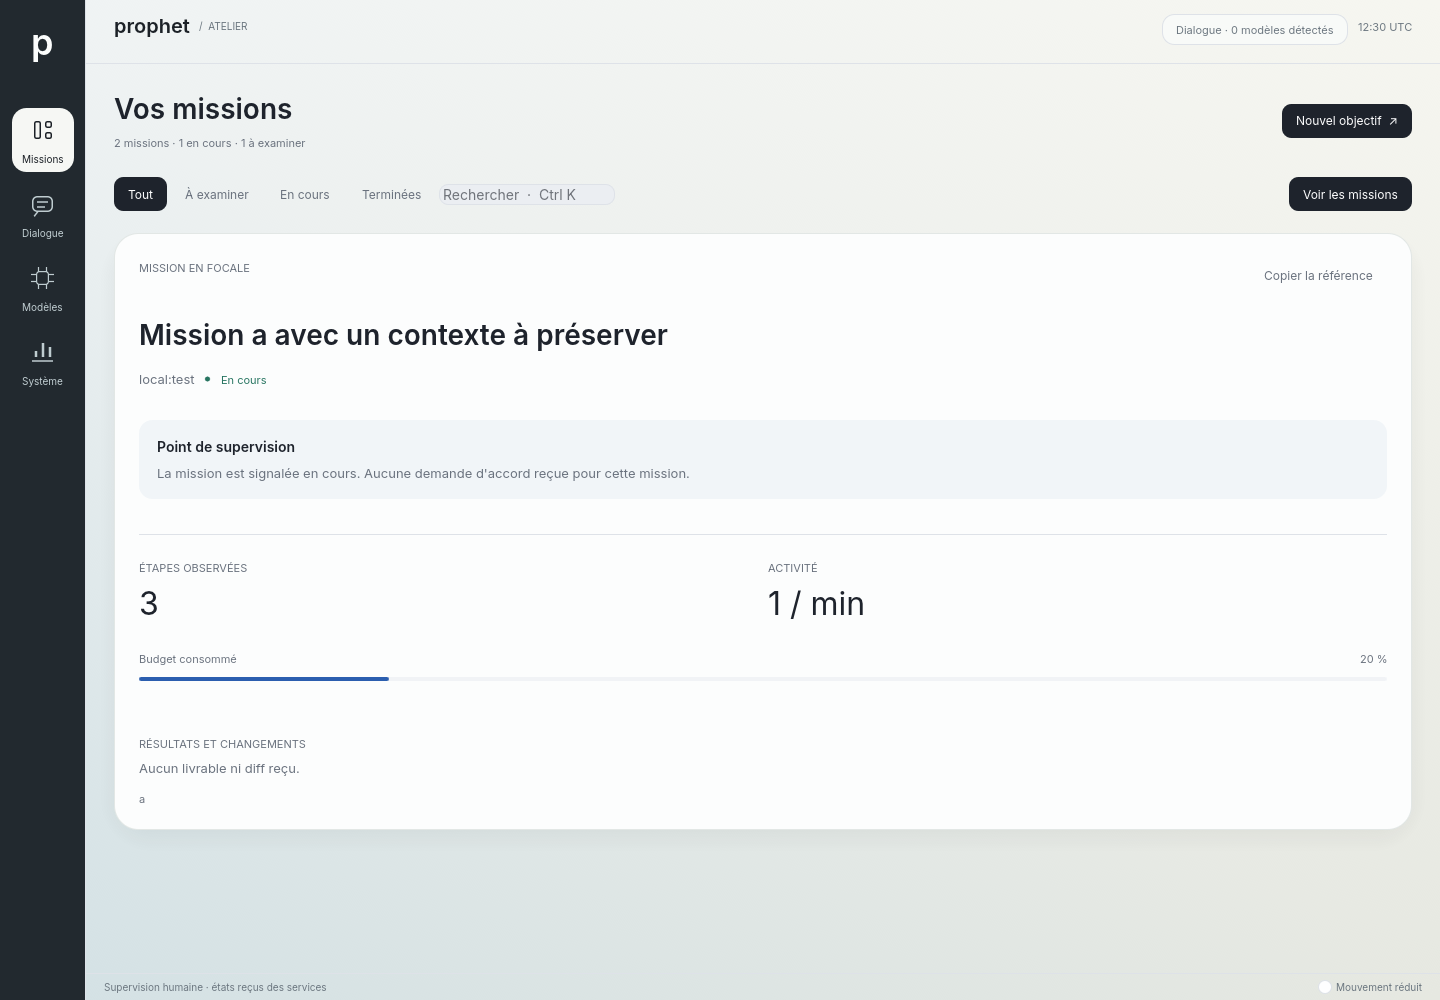
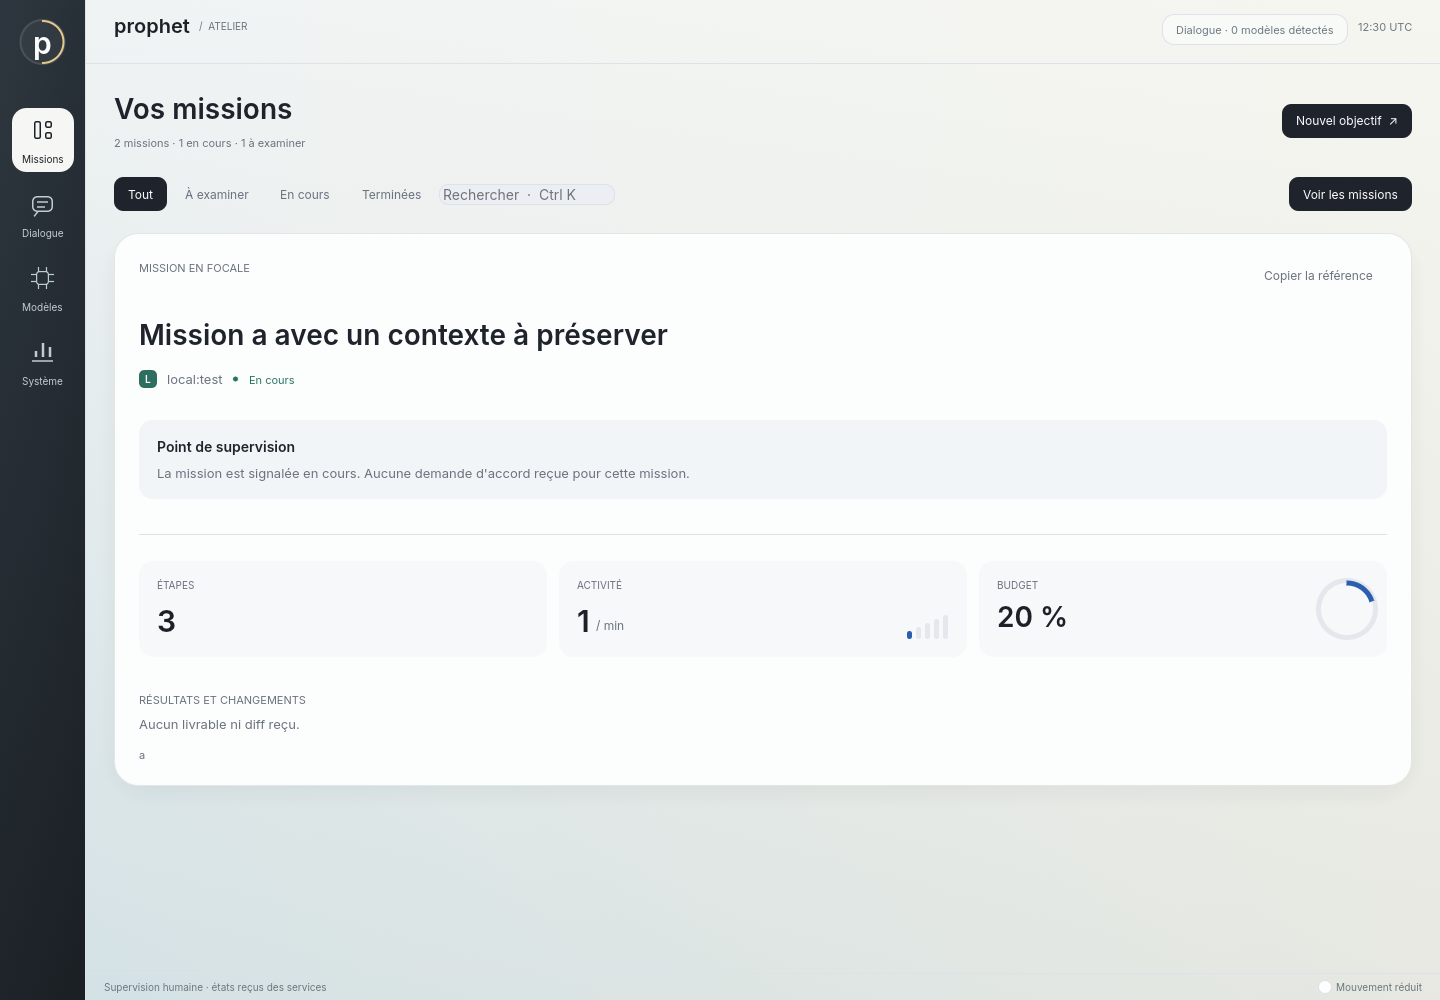
docs: les instruments de l'atelier et ses captures régénérées
Rapport daté, STATUS, FRONTIER et README ; les captures de l'atelier et de l'inspecteur sont
régénérées par le binaire et les tests en rendu logiciel, pour que la documentation montre
ce que le binaire dessine.

Claude-Session: https://claude.ai/code/session_012JqexkdMtmijXULYm2y2Eu

diff --git a/docs/reports/instruments-2026-09-13.md b/docs/reports/instruments-2026-09-13.md
@@ -1,0 +1,41 @@
+# Les instruments de l'atelier — 13 septembre 2026
+
+Passe visuelle après `a3659fd`, sur le binaire natif, rendue et vérifiée avec un GPU logiciel
+(llvmpipe). L'atelier gardait sa composition claire mais disait tout par des mots et des
+chiffres ; il dit maintenant l'essentiel par des formes, sans rien animer au repos.
+
+## Ce qui change
+
+- **Le rail** n'est plus un aplat : une lumière descend du haut, et l'emblème `p` est cerclé
+  d'un anneau qui se remplit avec la part de missions actives. Rien n'y bouge tant que l'état
+  ne change pas.
+- **Les missions** portent une bande de couleur d'état à gauche, un anneau de budget en haut à
+  droite et le monogramme de leur pilote : `C` Claude Code, `X` Codex, `G` Gemini, `L` moteur
+  local, `P` boucle native. On reconnaît qui travaille avant de lire.
+- **La Focale** remplace deux grands nombres et une barre par trois instruments : étapes,
+  activité avec son échelle à cinq traits, budget avec son anneau. L'inspecteur relié aux
+  services reçoit la même ligne en forme compacte, pour que la proposition et ses fichiers
+  restent visibles sans défiler.
+- Le module `instruments` fournit l'arc, l'anneau, le monogramme et la ligne d'instruments ;
+  ses tests vérifient les monogrammes et la géométrie des arcs.
+
+## Vérifications
+
+| Contrôle | Résultat local |
+| --- | --- |
+| `cargo test -p surface --lib` | 54 réussis |
+| `cargo test -p surface --test bureau --test rendu -- --include-ignored` (llvmpipe) | 15 réussis : repos sans animation, blanc translucide, tailles, décision, focale, mille missions |
+| `cargo test -p surface --test missions -- --include-ignored` (services réels, modèle contrôlé) | voir ci-dessous |
+| `cargo clippy -p surface --all-targets -- -D warnings`, `cargo fmt --all --check` | réussis |
+
+La première forme des instruments dans l'inspecteur relié cachait le bouton « Examiner » du
+premier fichier sous le défilement à 1440 × 1000 ; le test l'a relevé, et la forme compacte
+le corrige. Les captures de `docs/images/atelier-*.png` et `surface-mission-*.png` sont
+régénérées avec cette passe, par le binaire et les tests, en rendu logiciel.
+
+## Limites
+
+Le rendu logiciel ne mesure ni la fluidité ni la consommation sur une carte graphique réelle.
+La direction reste celle de l'ADR 0019, thème clair sans sculpture ; cette passe n'introduit
+aucune animation. La session humaine complète, les captures sur écran physique et les mesures
+matérielles attendues par FRONTIER restent ouvertes.

diff --git a/docs/STATUS.md b/docs/STATUS.md
@@ -79,6 +79,16 @@ et le [rapport](reports/navigateur-2026-09-13.md). La sortie réseau propre du n
 n'est pas relayée par egress et son confinement au niveau 2 n'est pas livré : les outils web
 restent désactivés par défaut. Aucune case complète de FRONTIER n'est cochée.
 
+Instruments de l'atelier du 13 septembre 2026, dans le commit portant ce rapport : rail éclairé
+avec emblème cerclé de la part de missions actives, bandes d'état, anneaux de budget et
+monogrammes de pilote sur les missions, trois instruments (étapes, activité, budget) dans la
+Focale et, en forme compacte, dans l'inspecteur relié aux services, une fois le travail commencé.
+Rendu et vérifié avec llvmpipe : 54 tests unitaires, 15 tests de rendu et 5 tests d'inspecteur
+avec services réels ; les captures de la documentation sont régénérées. Le premier essai cachait
+un bouton sous le défilement à 1440 × 1000 ; le test l'a relevé et la forme compacte le corrige.
+Voir le [rapport des instruments](reports/instruments-2026-09-13.md). La fluidité et la
+consommation sur une carte graphique réelle restent à mesurer.
+
 Jalons d'intégration réellement exercés le 12 septembre 2026 :
 
 - `c3b0c08` — moteur local réel, CLI et gel d'un processus possédé par sandboxd.

diff --git a/docs/FRONTIER.md b/docs/FRONTIER.md
@@ -150,3 +150,9 @@ navigateur à profil Prophet dans le bureau. Les preuves sont des tests avec les
 et un vrai navigateur, sous un seul UID, sans VM. La sortie réseau propre du navigateur n'est pas
 relayée par egress et son confinement n'est pas livré ; le critère « MCP livré opérationnel »
 progresse sans être coché.
+
+Les [instruments de l'atelier](reports/instruments-2026-09-13.md) donnent ensuite à la surface
+une identité qui se lit sans mots : anneaux, monogrammes, bandes d'état, rail éclairé, sans
+animation au repos, vérifiés en rendu logiciel par les tests de propriétés et d'inspecteur.
+Les captures d'états réels sont régénérées ; les temps de rendu, la mémoire et la consommation
+sur écran physique attendus par le critère d'interface restent à mesurer.

diff --git a/README.md b/README.md
@@ -54,6 +54,9 @@ expérimental ne constitue pas encore une version entièrement fonctionnelle.
 
 ![Atelier natif — scène de démonstration explicitement identifiée](docs/images/atelier-galerie-1440.png)
 
+Les [instruments de l'atelier](docs/reports/instruments-2026-09-13.md) : anneaux de budget,
+monogrammes de pilote, bandes d'état et rail éclairé, rendus et vérifiés en rendu logiciel.
+
 Captures, essais Wayland et limites : [rapport de l'espace natif](docs/reports/espace-natif-2026-09-12.md).
 
 ```
